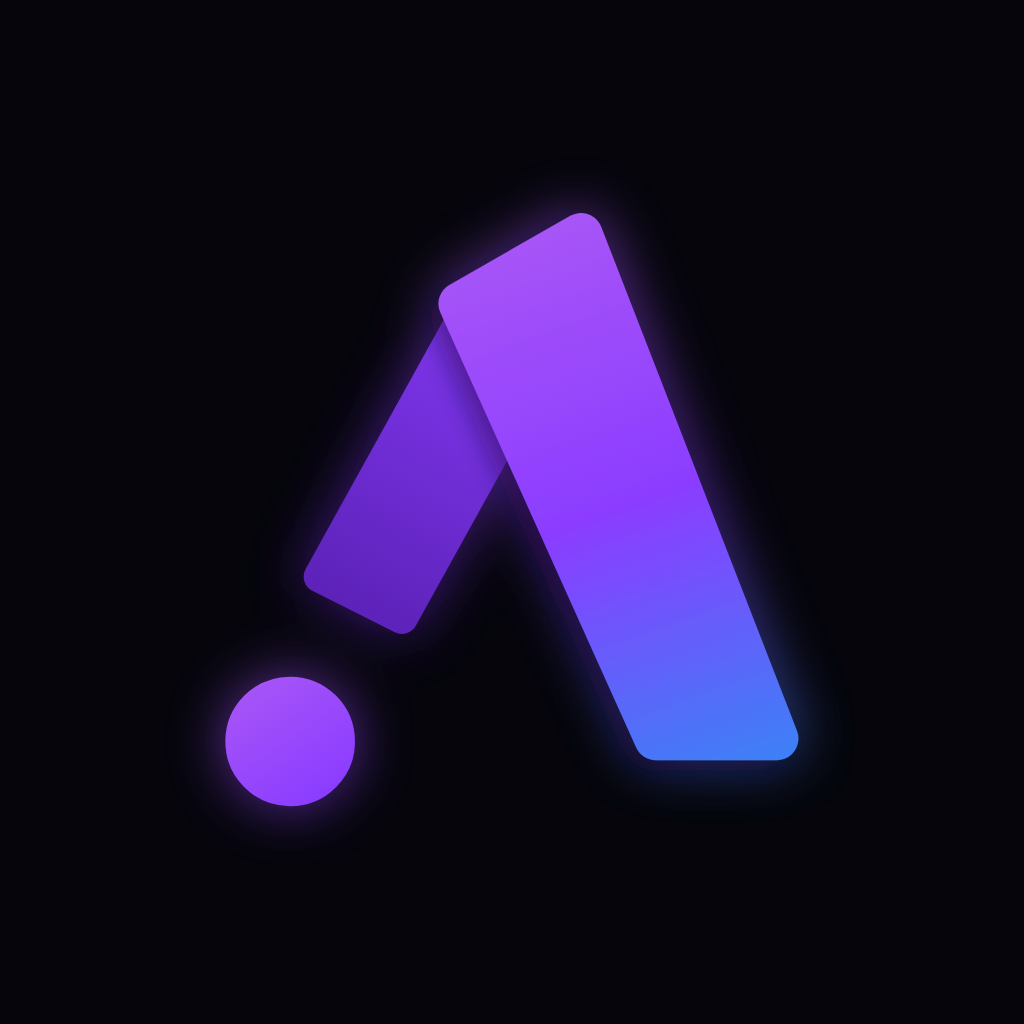
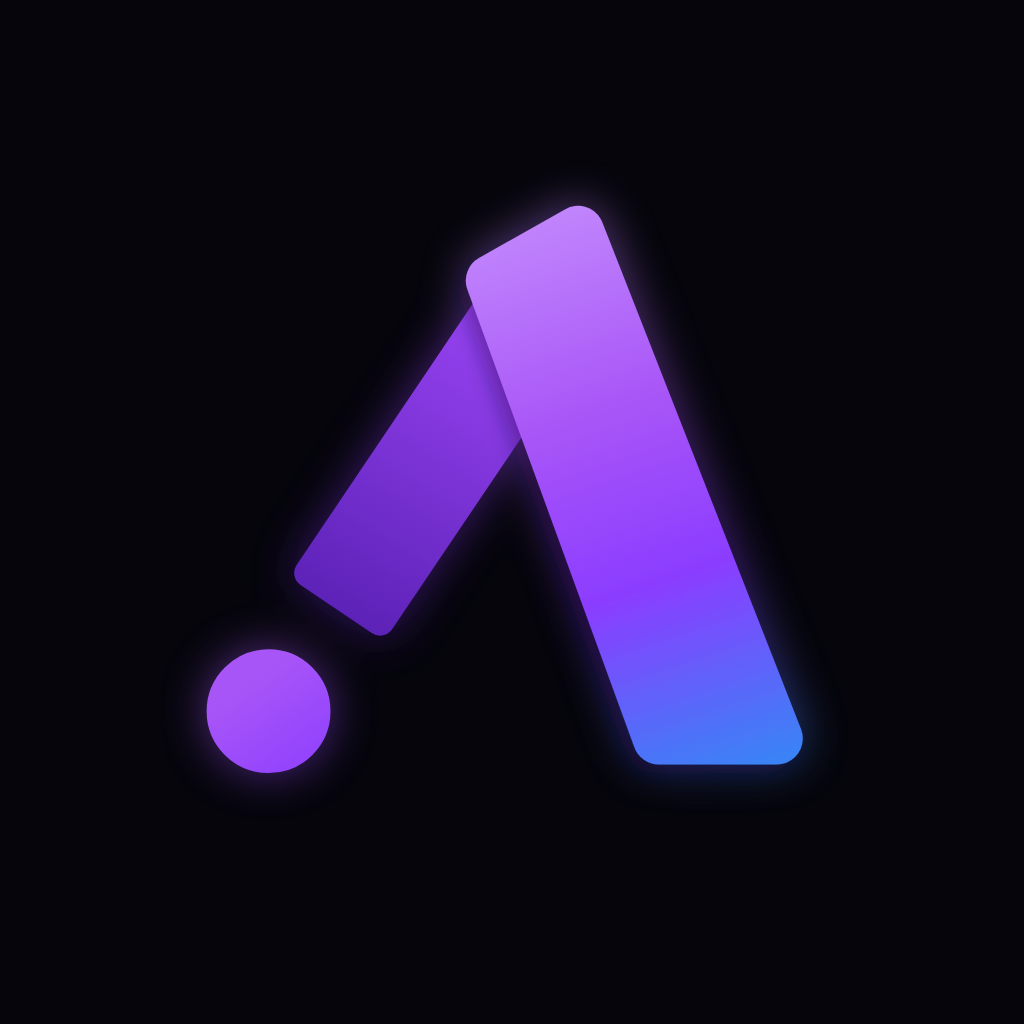
Brand kit v3: the apex closes, the l is an l, the flatness is gone
Round three, after the owner rejected v2 as cheap and the cut l as an
i. The causes, found by rendering close-ups and looking:

- The l read as an i because v2 cut the stem to x-height and floated
  the flag: a dotted short stem IS an i. Now the stem keeps nearly all
  its height, only its very top is sliced, and the flag sits flush on
  the slice with a hairline seam, rising past every other ascender: a
  tall l whose tip turns purple.
- The apex had a beak because the back leg started too low; its outer
  edge now lands on the fold seam corner so the silhouette closes
  into a true peak.
- A volume-shading overlay banded at the rims (stroke over fill
  stacks alpha) and made everything look worse; removed. The richness
  comes from a four-stop gradient, the cast-shadow fold, and calmer
  glows.
- Front leg is subtly tapered toward the apex, like the mockup.

Claude-Session: https://claude.ai/code/session_01JfFnrAET8HsE8vs7WJbg2Q

diff --git a/brand/actuals/tools/genbrand.py b/brand/actuals/tools/genbrand.py
@@ -48,45 +48,48 @@ os.makedirs(OUT, exist_ok=True)
 # under the fold at a matching angle and is cut square to its own
 # direction. The dot continues the back leg's line, a data point
 # falling out of the A.
-ROUND = 30  # round-join stroke width; corners get half this as radius
+ROUND = 36  # round-join stroke width; corners get half this as radius
 
 
 def mark_defs(p):
     return f"""
-    <linearGradient id="{p}front" x1="300" y1="60" x2="440" y2="450" gradientUnits="userSpaceOnUse">
-      <stop offset="0" stop-color="{P_LILAC}"/>
-      <stop offset="0.5" stop-color="{P_VIOLET}"/>
+    <linearGradient id="{p}front" x1="300" y1="60" x2="430" y2="445" gradientUnits="userSpaceOnUse">
+      <stop offset="0" stop-color="#C084FC"/>
+      <stop offset="0.35" stop-color="{P_LILAC}"/>
+      <stop offset="0.65" stop-color="{P_VIOLET}"/>
       <stop offset="1" stop-color="{P_BLUE}"/>
     </linearGradient>
-    <linearGradient id="{p}back" x1="290" y1="80" x2="140" y2="340" gradientUnits="userSpaceOnUse">
-      <stop offset="0" stop-color="{P_VIOLET}"/>
+    <linearGradient id="{p}back" x1="280" y1="130" x2="150" y2="345" gradientUnits="userSpaceOnUse">
+      <stop offset="0" stop-color="#9B45F5"/>
       <stop offset="1" stop-color="{P_DEEP}"/>
     </linearGradient>
-    <linearGradient id="{p}dotg" x1="95" y1="375" x2="150" y2="455" gradientUnits="userSpaceOnUse">
+    <linearGradient id="{p}dotg" x1="92" y1="380" x2="146" y2="455" gradientUnits="userSpaceOnUse">
       <stop offset="0" stop-color="{P_LILAC}"/>
       <stop offset="1" stop-color="{P_VIOLET}"/>
     </linearGradient>
+
     <filter id="{p}fold" x="-40%" y="-40%" width="180%" height="180%">
-      <feDropShadow dx="-7" dy="7" stdDeviation="9" flood-color="#1B0A3C" flood-opacity="0.45"/>
+      <feDropShadow dx="-5" dy="6" stdDeviation="7" flood-color="#1B0A3C" flood-opacity="0.38"/>
     </filter>
     <filter id="{p}soft" x="-60%" y="-60%" width="220%" height="220%">
-      <feGaussianBlur stdDeviation="20"/>
+      <feGaussianBlur stdDeviation="16"/>
     </filter>"""
 
 
 # The back leg: perpendicular end caps, so its bottom cut slopes with
 # the stroke. Corners from centreline (275,90) to (165,322), half
 # width 40 (plus the round stroke it grows to ~53).
-BACK = "M237.4 125.6 L294.6 154.4 L191.6 340.4 L134.4 311.6 Z"
-# The front leg: fold seam at the top, horizontal foot on the ground.
-FRONT = "M232 122 L316 74 L452 424 L368 424 Z"
-DOT = 'cx="114" cy="426" r="42"'
+BACK = "M261 110 L310.7 143.5 L176.5 342.5 L126.8 309 Z"
+# The front leg: fold seam at the top, horizontal foot on the ground,
+# and a slight taper: narrower at the apex than at the foot.
+FRONT = "M254 106 L314 72 L452 424 L370 424 Z"
+DOT = 'cx="99" cy="405" r="40"'
 
 
 def mark_group(p, glow=False):
     """The artwork. glow=True adds the blurred colored copy below."""
     stroke = f'stroke-width="{ROUND}" stroke-linejoin="round"'
-    bstroke = 'stroke-width="22" stroke-linejoin="round"'
+    bstroke = 'stroke-width="20" stroke-linejoin="round"'
     art = f"""
     <g>
       <path d="{BACK}" fill="url(#{p}back)" stroke="url(#{p}back)" {bstroke}/>
@@ -98,7 +101,7 @@ def mark_group(p, glow=False):
     if not glow:
         return art
     return f"""
-    <g filter="url(#{p}soft)" opacity="0.6">
+    <g filter="url(#{p}soft)" opacity="0.5">
       <path d="{BACK}" fill="url(#{p}back)" stroke="url(#{p}back)" {bstroke}/>
       <circle {DOT} fill="url(#{p}dotg)" stroke="url(#{p}dotg)" stroke-width="6"/>
       <path d="{FRONT}" fill="url(#{p}front)" stroke="url(#{p}front)" {stroke}/>
@@ -126,7 +129,7 @@ def svg(viewbox, body):
 
 
 # Mark bounds after stroke growth: x 64..465, y 48..437 with the dot.
-MARK_VB = "42 39 452 452"
+MARK_VB = "35 23 456 456"
 
 write("symbol.svg", svg(MARK_VB, f"<defs>{mark_defs('s')}</defs>{mark_group('s')}"))
 
@@ -189,9 +192,9 @@ STEM_R = lx + 18.6
 # The diagonal cut through the stem, leaning like the mark's fold.
 # Everything above this line is ERASED from the l, then the flag
 # floats above it with a visible gap, exactly as in the owner's sheet.
-CUT_YL = -56.0   # cut height at the stem's left edge
-CUT_YR = -63.0   # higher at the right edge
-GAP = 5.0
+CUT_YL = -64.0   # cut height at the stem's left edge
+CUT_YR = -69.0   # higher at the right edge
+GAP = 2.0
 
 
 def word_defs(p):
@@ -211,15 +214,16 @@ def word_defs(p):
 
 
 def flag():
-    # The flag: same width as the stem plus a lean to the right, its
-    # base parallel to the cut, floating GAP above it, rising past the
-    # ascender the way the sheet's does.
-    x0, x1 = STEM_L, STEM_R + 7.5
+    # The flag continues the stem: same width plus a small overhang to
+    # the right, base flush on the slice bar a hairline, rising 24
+    # above it with a slight lean. The stem plus flag reads as one
+    # tall letter with a purple tip.
+    x0, x1 = STEM_L, STEM_R + 6.0
     base_l = CUT_YL - GAP
-    base_r = CUT_YR - GAP - 3.5
+    base_r = CUT_YR - GAP - 2.7
     top_l = base_l - 24
     top_r = base_r - 24
-    lean = 6.5
+    lean = 5.0
     return (f'M{x0:.1f} {base_l:.1f} L{x1:.1f} {base_r:.1f} '
             f'L{x1 + lean:.1f} {top_r:.1f} L{x0 + lean:.1f} {top_l:.1f} Z')
 
@@ -231,7 +235,7 @@ def wordmark_body(p, ink_expr):
   <path d="{flag()}" fill="url(#{p}flag)"/>"""
 
 
-WORD_VB = f"-6 -100 {WORD_W + 20:.0f} 110"
+WORD_VB = f"-6 -104 {WORD_W + 20:.0f} 114"
 write("wordmark-dark.svg", svg(WORD_VB, wordmark_body("wd", "url(#wdink)")))
 write("wordmark-light.svg", svg(WORD_VB, wordmark_body("wl", INK_DARK)))
 
@@ -239,7 +243,7 @@ write("wordmark-light.svg", svg(WORD_VB, wordmark_body("wl", INK_DARK)))
 def lockup_body(p, ink_expr):
     return f"""
   <defs>{mark_defs(p)}{word_defs(p)}</defs>
-  <g transform="translate(-47,-152) scale(0.34)">{mark_group(p)}</g>
+  <g transform="translate(-40,-152) scale(0.34)">{mark_group(p)}</g>
   <g transform="translate(158,0)">
     <path d="{word['d']}" fill="{ink_expr}" mask="url(#{p}cut)"/>
     <path d="{flag()}" fill="url(#{p}flag)"/>
